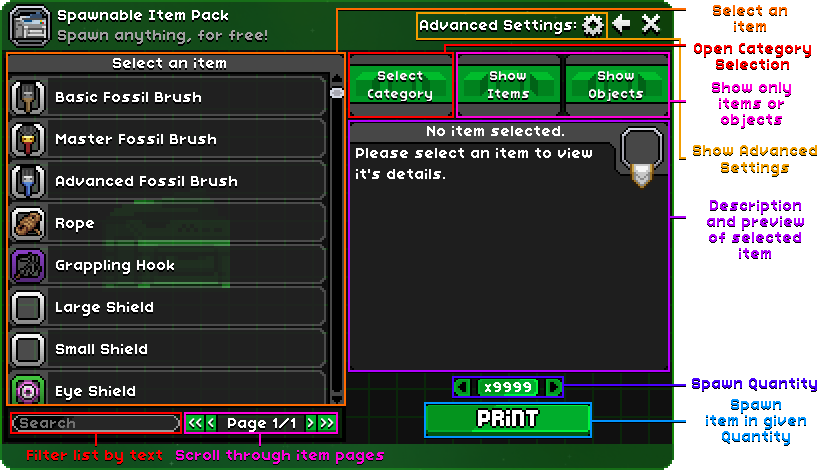
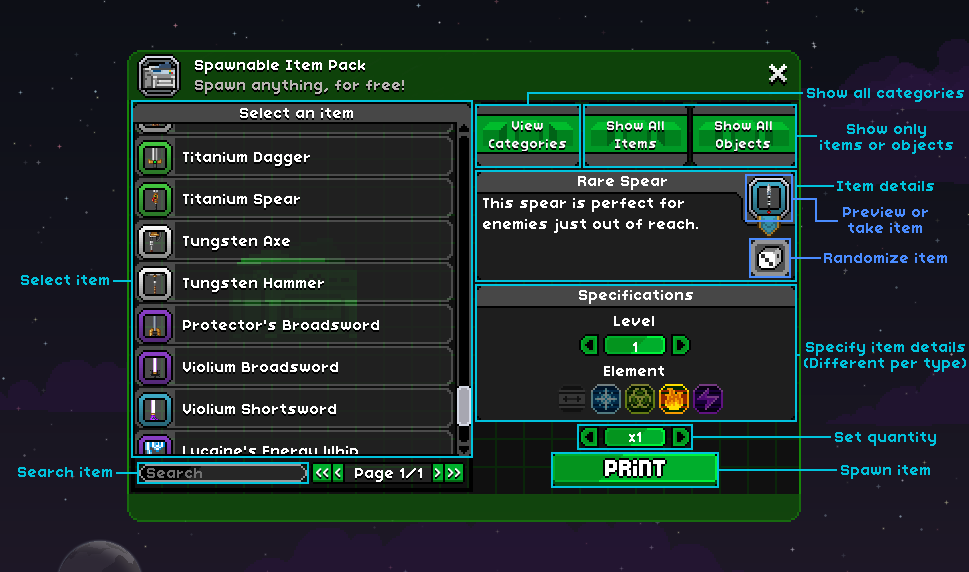
Update features & images

diff --git a/README.md b/README.md
@@ -27,8 +27,6 @@ Don't worry, the bundled [Quickbar Mini][qbm] mod ensures you still have access 
 ##### Using the interface
 After opening the interface, you will be presented with a list of items. Note that the interface may take a second or two to load, as the item lists are being populated when you open the interface.
 
-Also note that not every preview image may appear as expected. The preview images for a large number of animated objects and items will show all frames rather than one image. Finding a fix and applying it is planned.
-
 The functionality of the interface is shown in the below image.  
 You can only select one category at once. Deselecting the current category is possible.
 ![Interface](https://raw.githubusercontent.com/Silverfeelin/SpawnableItemPack/master/readme/sip.png "Interface")
@@ -38,8 +36,10 @@ You can only select one category at once. Deselecting the current category is po
 * Spawn any item in any quantity.
 * Filter items by categories.
 * Filter items by item identifiers or names.
-* Change settings such as the level of generated weapons in the advanced settings menu.
- * You can open this menu by selecting the cog in the top right corner of the interface.
+* Filter items by rarities.
+* Change settings such as the level of generated weapons.
+* Randomize generated items before spawning them.
+* Copy existing items by dragging them on the item slot.
 
 ## Potential Issues
 * Game updates that remove items may cause issues, as the mod uses it's own item dump to populate lists.
